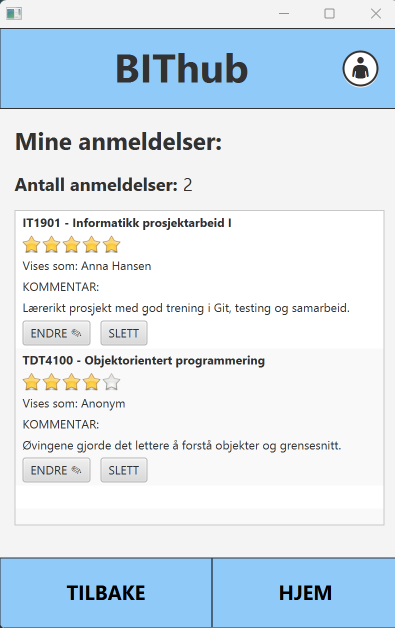
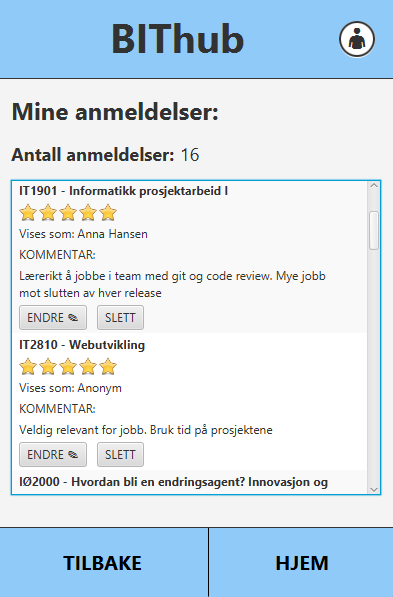
Oppdater dokumentasjonen av eksempeldataene
Avsnittet om eksempeldata beskriver nå de nye dataene, lister alle
testbrukerne og viser hvordan man tar en kopi av egne data før
eksempeldataene kopieres inn. Teststegene er oppdatert uten
gjesteanmeldelsen, og skjermbildene er tatt på nytt med de nye dataene.

ref #254

Changed region(s): [[0.0, 0.0, 1.0, 0.8442], [0.0, 0.8744, 1.0, 1.0], [0.7023, 0.9347, 0.855, 0.9648]]

diff --git a/docs/release3/release3.md b/docs/release3/release3.md
@@ -102,7 +102,7 @@ brukeren Anna Hansen. Trykk på et bilde for å åpne det i full størrelse i ma
     </td>
     <td align="center">
       <b>Lese anmeldelser</b><br>
-      <a href="bilder_release3/ReadReviews.png"><img src="bilder_release3/ReadReviews.png" alt="Anmeldelser av TDT4100 med en anonym anmeldelse og en gjesteanmeldelse" height="300"></a>
+      <a href="bilder_release3/ReadReviews.png"><img src="bilder_release3/ReadReviews.png" alt="Anmeldelser av IT1901 med stjerner og gjennomsnitt" height="300"></a>
     </td>
     <td align="center">
       <b>Skrive anmeldelse</b><br>
@@ -246,48 +246,45 @@ i [contribution.md](contribution.md). De to største utfordringene vi hadde, er 
 
 ## Eksempeldata
 
-Mappen [eksempeldata](eksempeldata/) inneholder tre emner, fem anmeldelser og to
-testbrukere i lagringsformatet for release 3. Med dem kan du logge inn og se
-innhold under «Mine anmeldelser» uten å registrere brukere og skrive
-anmeldelser først.
+Mappen [eksempeldata](eksempeldata/) inneholder anmeldelser av alle emnene i emnelisten, skrevet av seks
+testbrukere. Med dem har alle emnene anmeldelser, gjennomsnitt og stjerner, både for gjester og for innloggede
+brukere.
 
-- [courses.json](eksempeldata/courses.json): emner og anmeldelser med unike
-  id-er, eier og om anmeldelsen er anonym.
-- [users.json](eksempeldata/users.json): testbrukere med passordhash og salt.
+- [courses.json](eksempeldata/courses.json): 108 anmeldelser, 2–4 per emne, både med navn og anonyme. Alle
+  anmeldelsene har en eier.
+- [users.json](eksempeldata/users.json): seks testbrukere med passordhash og salt.
 
+Dataene er laget ved å bruke appen. Ingen bruker har mer enn én anmeldelse per emne (#251).
 Eksempeldataene fra release 2 ligger fortsatt i [docs/release2/eksempeldata/](../release2/eksempeldata/).
-
-| Emne | Anmeldelser |
-| --- | --- |
-| IT1901 Informatikk prosjektarbeid I | Anna med navn, Emil anonym |
-| TDT4100 Objektorientert programmering | Anna anonym, en gammel uten eier |
-| IT2805 Webteknologi | Emil med navn |
 
 ### Testbrukere
 
-| Navn | E-post | Passord |
+Alle testbrukerne har passordet `Bithub214!`.
+
+| Navn | E-post | Anmeldelser |
 | --- | --- | --- |
-| Anna Hansen | anna@example.com | Bithub214! |
-| Emil Berg | emil@example.com | Bithub214! |
+| Anna Hansen | anna@example.com | 16 |
+| Emil Berg | emil@example.com | 17 |
+| Sara Nilsen | sara@example.com | 18 |
+| Jonas Lie | jonas@example.com | 19 |
+| Ida Moe | ida@example.com | 19 |
+| Magnus Strand | magnus@example.com | 19 |
 
 Dette er fiktive brukere med offentlige testpassord. Passordene lagres som hash
 med PBKDF2-HMAC-SHA256, 600 000 iterasjoner, 16 byte salt og 32 byte hash, begge
 Base64-kodet.
 
-Anmeldelsen uten eier i TDT4100 viser hvordan anmeldelser fra release 2 vises
-etter at innlogging ble innført. Den har `ownerEmail: null`, vises som «Gjest»
-og kan ikke endres av noen.
-
 ### Bruke eksempeldataene
 
 Serveren leser og skriver `courses.json` og `users.json` i mappen `.bithub` i
-hjemmemappen din. For å bruke eksempeldataene kopierer du begge filene dit før
-du starter serveren. Har du allerede filer der, ta en kopi av dem først, for de
-blir overskrevet.
+hjemmemappen din. Kopier begge filene dit før du starter serveren.
+
+**Har du allerede filer i `.bithub`, blir de overskrevet.** Ta en kopi først hvis du vil beholde dem.
 
 Fra rotmappen i repoet, på macOS, Linux og i Eclipse Che:
 
 ```bash
+cp -r ~/.bithub ~/.bithub-backup   # bare hvis du har egne data
 mkdir -p ~/.bithub
 cp docs/release3/eksempeldata/courses.json docs/release3/eksempeldata/users.json ~/.bithub/
 ```
@@ -295,25 +292,25 @@ cp docs/release3/eksempeldata/courses.json docs/release3/eksempeldata/users.json
 På Windows (PowerShell), fra rotmappen i repoet:
 
 ```powershell
+Copy-Item "$HOME\.bithub" "$HOME\.bithub-backup" -Recurse   # bare hvis du har egne data
 New-Item -ItemType Directory -Force "$HOME\.bithub"
-Copy-Item docs\release3\eksempeldata\courses.json, docs\release3\eksempeldata\users.json "$HOME\.bithub\"
+Copy-Item docs\release3\eksempeldata\courses.json, docs\release3\eksempeldata\users.json "$HOME\.bithub\" -Force
 ```
 
 `$HOME` skal stå akkurat slik. PowerShell bytter det ut med hjemmemappen din.
 
-Start så serveren og appen som beskrevet i [README](../../README.md#kjøre-lokalt). Serveren
-legger til standardemner som mangler, så emnelisten inneholder flere emner enn
-de tre i eksempelfilen.
+Start så serveren og appen som beskrevet i [README](../../README.md#kjøre-lokalt).
 
-For å starte på nytt med de opprinnelige dataene: stopp serveren, kopier begge
-filene på nytt og start serveren igjen.
+For å starte på nytt med eksempeldataene: stopp serveren, kopier begge filene på nytt og start serveren igjen.
+For å få tilbake dine egne data: stopp serveren, slett `.bithub` og gi `.bithub-backup` navnet `.bithub` igjen.
 
 ### Prøv eksempeldataene
 
-1. Logg inn som `anna@example.com` med passordet `Bithub214!`.
-2. Åpne «Mine anmeldelser». Anna har to anmeldelser, i IT1901 og TDT4100.
-3. Les anmeldelsene i IT1901. Anna vises med navn og Emil som «Anonym».
-4. Les anmeldelsene i TDT4100. Anna vises som «Anonym», og anmeldelsen uten
-   eier vises som «Gjest».
-5. Logg ut og inn som `emil@example.com` med samme passord.
-6. Åpne «Mine anmeldelser». Emil har to anmeldelser, i IT1901 og IT2805.
+1. Trykk «Fortsett som gjest» og åpne «Les anmeldelser». Alle emnene har anmeldelser. IT1901 har fire, med et
+   snitt på 4.25.
+2. Logg inn som `anna@example.com` med passordet `Bithub214!`.
+3. Åpne «Mine anmeldelser». Anna har 16 anmeldelser, både med navn og anonyme.
+4. Prøv å skrive en ny anmeldelse av IT1901. Appen sier at du allerede har anmeldt emnet, og at du kan endre
+   anmeldelsen under «Mine anmeldelser».
+5. Logg ut og inn som `emil@example.com` med samme passord. Emil har 17 anmeldelser.
+6. Registrer en ny bruker. Den nye brukeren ser alle anmeldelsene, men har ingen under «Mine anmeldelser».
